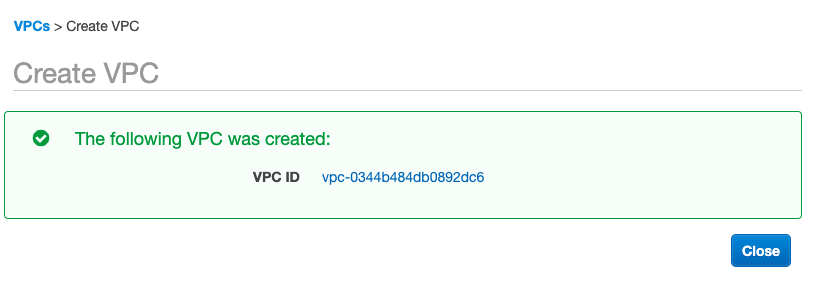
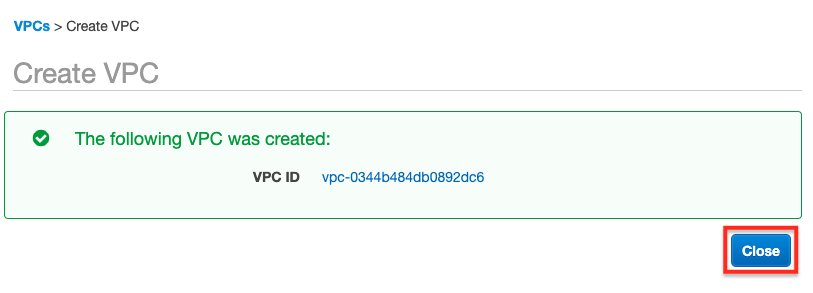
udpates

Changed region(s): [[0.8918, 0.7679, 0.984, 0.9522]]

diff --git a/lab-002/README.md b/lab-002/README.md
@@ -27,6 +27,13 @@ In order to achieve the goal of this lab, you will have to go through the follow
 ![lab-002-scrn-03](images/lab-002-scrn-03.png)
 
 2. Create an [Internet gateway](https://docs.aws.amazon.com/vpc/latest/userguide/VPC_Internet_Gateway.html) with the *Name tag* lab-002 and attach it to lab-002 VPC.
+
+![lab-002-scrn-04](images/lab-002-scrn-04.png)
+![lab-002-scrn-05](images/lab-002-scrn-05.png)
+![lab-002-scrn-06](images/lab-002-scrn-06.png)
+![lab-002-scrn-07](images/lab-002-scrn-07.png)
+![lab-002-scrn-08](images/lab-002-scrn-08.png)
+
 3. Create a public subnet on lab-002 with the *Name tag* public and *IPv4 CIDR block* 192.168.100.0/24.  
 4. Enable *Auto-assign IPV4* in the newly created public subnet.
 5. Edit the route table of the public subnet adding a default route to *Internet gateway* lab-002.
